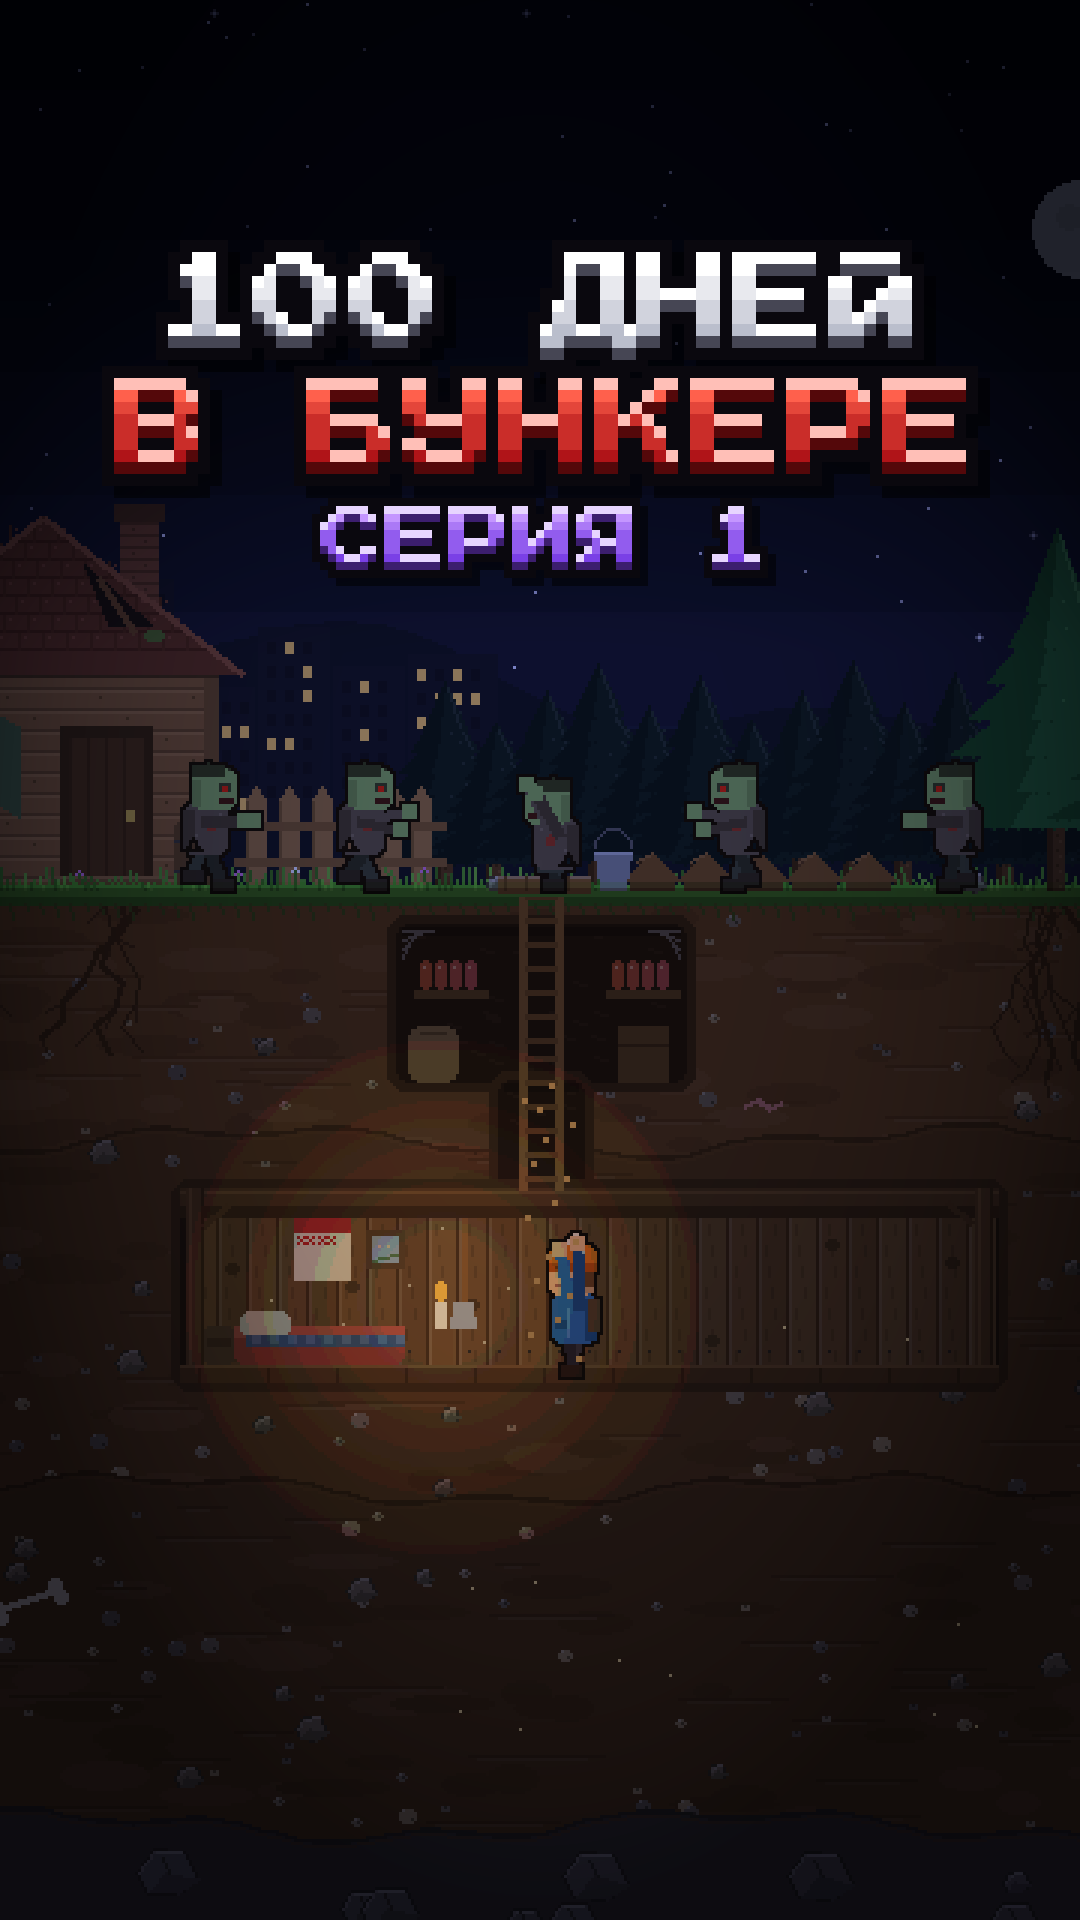
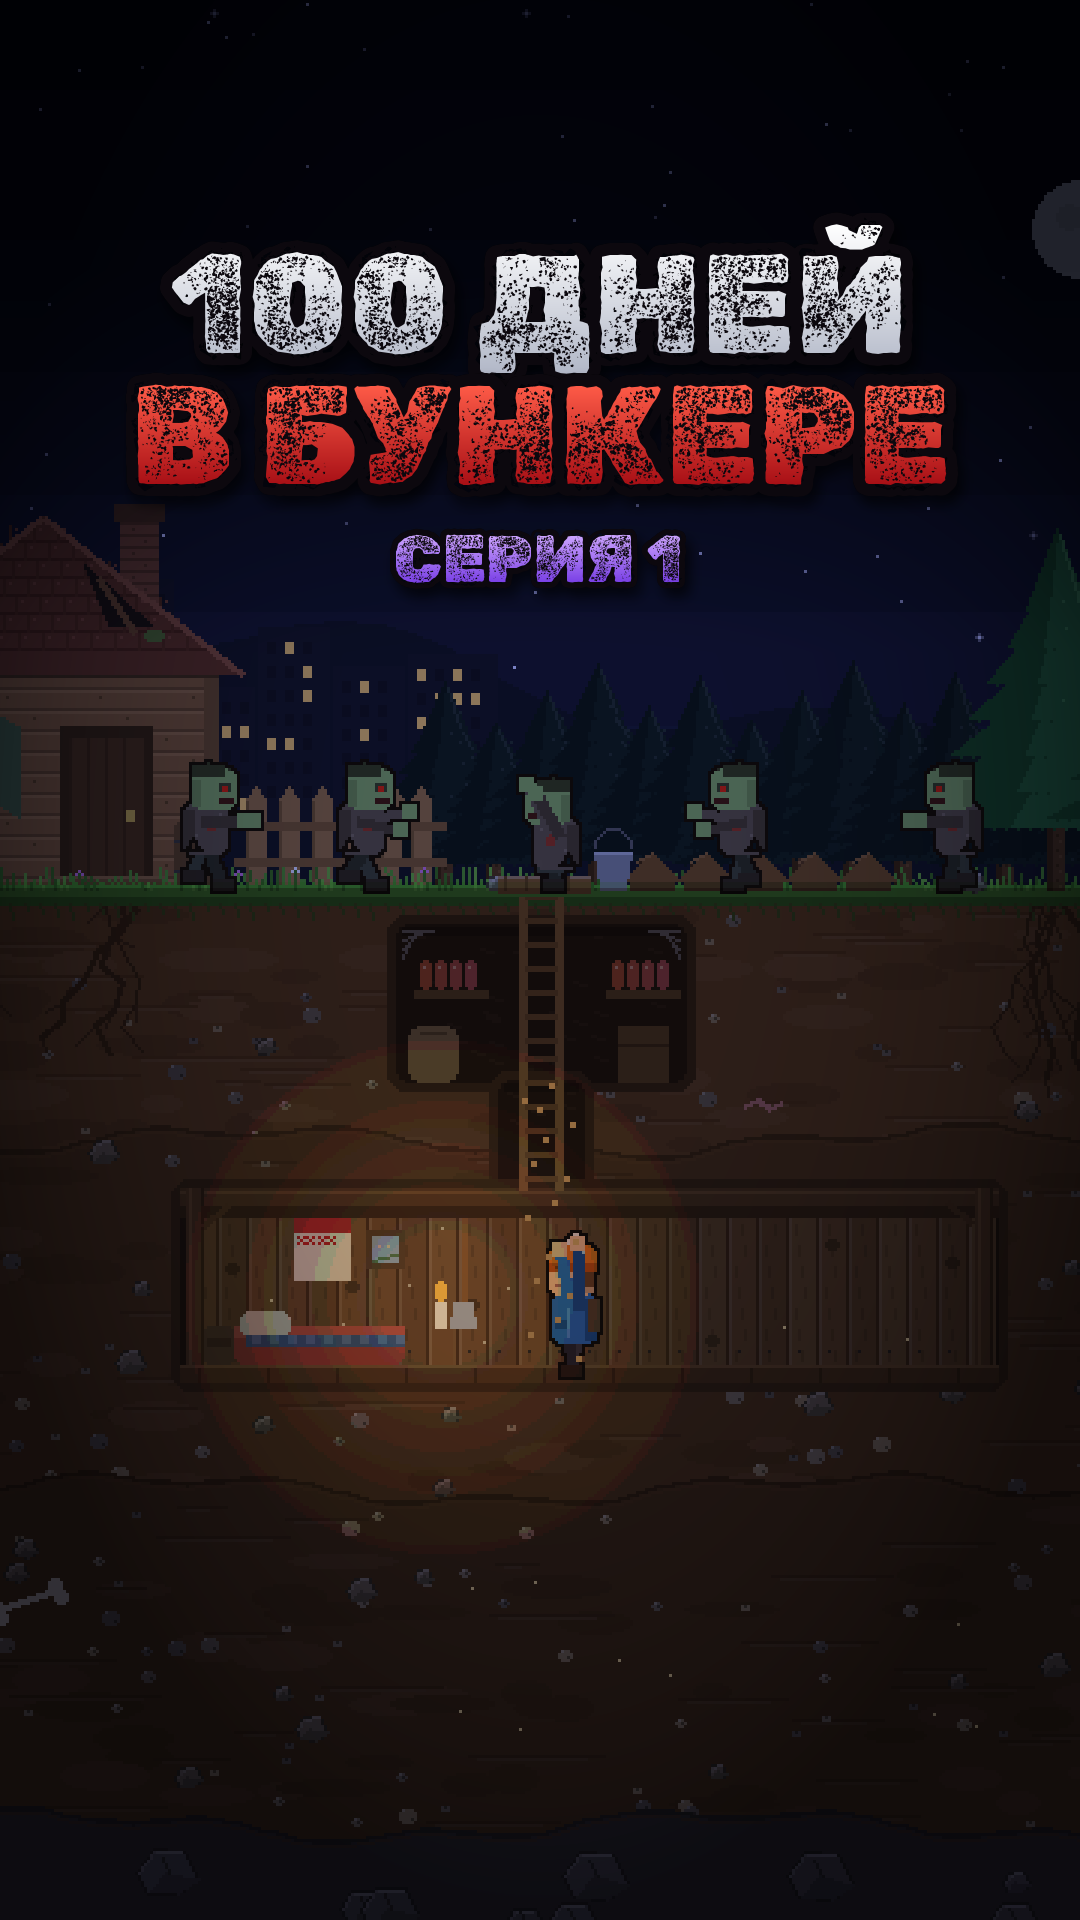
Zombi: title, ending and cover in Rubik Dirt (owner's choice)
Claude-Session: https://claude.ai/code/session_012AJnV3FoB4MYQ4cLJ3yctW

Changed region(s): [[0.0917, 0.0938, 0.9167, 0.3125]]

diff --git a/tiktok/zombi/bunker/build.py b/tiktok/zombi/bunker/build.py
@@ -225,7 +225,7 @@ def title(img, lines, t0, t):
             break
 
 
-# ---------- заставка: пиксельный логотип (Press Start 2P ×12, градиент, блик, объём, контур) ----------
+# ---------- заставка: логотип (выбран Rubik Dirt — обычный шрифт; пиксельный вариант тоже поддерживается) ----------
 WET = os.path.join(HERE, "fonts", "RubikWetPaint-Regular.ttf")
 LOGO_COLS = {"white": ((255, 255, 255), (186, 190, 204), (70, 70, 84)),
              "red": ((255, 96, 76), (176, 20, 24), (84, 8, 10)),
@@ -251,10 +251,48 @@ def _dil(a):
     return o
 
 
+SMOOTH = {"dirt": os.path.join(HERE, "fonts", "RubikDirt-Regular.ttf")}   # обычные (не пиксельные) шрифты заставки
+SMOOTH_COLS = {"white": ((255, 255, 255), (178, 184, 200)), "red": ((255, 92, 72), (168, 16, 22)),
+               "purple": ((206, 166, 255), (122, 64, 230))}
+
+
+def smooth_logo(text, color, path, size, maxw=980):
+    """Обычный шрифт: плавный градиент сверху вниз, толстый тёмный контур, мягкая тень."""
+    f = ImageFont.truetype(path, size)
+    while f.getlength(text) > maxw and size > 20:
+        size -= 4
+        f = ImageFont.truetype(path, size)
+    st = max(5, size // 11)
+    x0, y0, x1, y1 = f.getbbox(text, stroke_width=st)
+    pad = 24
+    w, h = x1 - x0 + 2 * pad, y1 - y0 + 2 * pad
+    org = (pad - x0, pad - y0)
+    fill = Image.new("L", (w, h), 0)
+    ImageDraw.Draw(fill).text(org, text, font=f, fill=255)
+    strk = Image.new("L", (w, h), 0)
+    ImageDraw.Draw(strk).text(org, text, font=f, fill=255, stroke_width=st, stroke_fill=255)
+    ys = np.where(np.asarray(fill).max(1) > 0)[0]
+    top, bot = SMOOTH_COLS[color]
+    t = np.clip((np.arange(h) - ys.min()) / max(1, ys.max() - ys.min()), 0, 1)[:, None, None]
+    g = np.broadcast_to(np.array(top) * (1 - t) + np.array(bot) * t, (h, w, 3)).astype(np.uint8)
+    out = Image.new("RGBA", (w, h), (0, 0, 0, 0))
+    sh = Image.new("RGBA", (w, h), (0, 0, 0, 0))
+    sh.paste((0, 0, 0, 180), (5, 9), strk)
+    out = Image.alpha_composite(out, sh.filter(ImageFilter.GaussianBlur(6)))
+    out.paste(Image.new("RGBA", (w, h), (12, 8, 14, 255)), (0, 0), strk)
+    out.paste(Image.fromarray(np.ascontiguousarray(g)), (0, 0), fill)
+    return out
+
+
 def logo(text, color, font):
-    """Пиксельная надпись как логотип ретро-игры: градиент ступенями, блик сверху, объём вниз, контур, тень."""
+    """Надпись заставки. font: "px12" — пиксельный логотип (Press Start 2P ×12),
+    "dirt140" — обычный шрифт Rubik Dirt размером 140 (градиент, контур, тень)."""
     key = ("logo", text, color, font)
     if key in SPR:
+        return SPR[key]
+    name = font.rstrip("0123456789")
+    if name in SMOOTH:
+        SPR[key] = smooth_logo(text, color, SMOOTH[name], int(font[len(name):]))
         return SPR[key]
     a, k = (_mask(text, WET, 40), 4) if font == "wet" else (_mask(text, PIXEL, 8), int(font[2:]))   # "px12" — пиксель ×12
     top, bot, ext = LOGO_COLS[color]
@@ -370,7 +408,7 @@ def frame(fi):
     last = scenes[-1]
     tend = last["words"][-1]["t1"] + 0.5
     if T > tend:
-        logo_lines(img, EP.END + [(EP.NEXT, "purple", 575, "px5")], tend, T)
+        logo_lines(img, EP.END + [(EP.NEXT, "purple", 590, EP.NEXT_FONT)], tend, T)
     if s["n"] in EP.NAMES:                   # жёлтое имя над героиней
         name, w0, wx, wy = EP.NAMES[s["n"]]
         tw = next((w["t0"] for w in s["words"] if w["raw"].strip(".,") == w0), None)

diff --git a/tiktok/zombi/bunker/ep1.py b/tiktok/zombi/bunker/ep1.py
@@ -15,8 +15,9 @@ SCENES = [
     (12, "ДЕНЬ 30", "Так стучат только живые. Но за целый месяц ты не слышал оттуда ни звука. **Кто сидел за стеной всё это время?**", 14),
 ]
 OFF = ("bike", "lamp", "tunnel")        # этого в мире ещё нет
-TITLE = [("100 ДНЕЙ", "white", 320, "px12"), ("В БУНКЕРЕ", "red", 440, "px12"), ("СЕРИЯ 1", "purple", 545, "px6")]
-END = [("КТО ЗА", "white", 340, "px12"), ("СТЕНОЙ?", "red", 460, "px12")]   # строки: (текст, цвет, y, шрифт: px12 = пиксель ×12)
+TITLE = [("100 ДНЕЙ", "white", 315, "dirt140"), ("В БУНКЕРЕ", "red", 450, "dirt140"), ("СЕРИЯ 1", "purple", 570, "dirt66")]
+END = [("КТО ЗА", "white", 330, "dirt150"), ("СТЕНОЙ?", "red", 470, "dirt150")]   # (текст, цвет, y, шрифт+размер)
+NEXT_FONT = "dirt60"
 NEXT = "СЕРИЯ 2 — СКОРО"
 NAMES = {}
 VOICE = "ep1_voice"

diff --git a/tiktok/zombi/bunker/cover.py b/tiktok/zombi/bunker/cover.py
@@ -37,8 +37,8 @@ def make(ep):
     xx = np.linspace(-1, 1, W)[None, :, None]
     a *= np.clip(1 - 0.35 * (xx ** 2 + ((yy - 0.45) * 2) ** 2) ** 1.5, 0.55, 1)
     im = Image.fromarray(a.clip(0, 255).astype(np.uint8)).convert("RGBA")
-    for (text, color, _, font), y in zip(m.TITLE, (300, 420, 535)):
-        build.paste_c(im, build.logo(text, color, font if not text.startswith("СЕРИЯ") else "px8"), W / 2, y)
+    for (text, color, _, font), y in zip(m.TITLE, (300, 435, 560)):
+        build.paste_c(im, build.logo(text, color, font), W / 2, y)
     if hook:                                                            # «тук-тук» у стены
         sx, sy = (432 - x0) * 3, (548 - y0) * 3
         build.paste_c(im, build.pix(hook, 4, build.YELLOW), sx - 140, sy - 150)

diff --git a/tiktok/zombi/ZOMBI.md b/tiktok/zombi/ZOMBI.md
@@ -44,11 +44,12 @@ ElevenLabs: тариф Creator, на 15.11.2026 использовано ~6.5 т
 ElevenLabs Music (`POST /v1/music`, model `music_v1`, `music_length_ms`): 90 с ≈ 70 символов, генерация ~8 с,
 не больше 2 запросов одновременно. Варианты в `music/` (1 тёплый, 2 тёмный, 3 шкатулка; `*_s_golosom.mp3` —
 первые 35 с серии с голосом). **Владелец выбрал №1 «тёплый» (`ambient_1_teplyy.mp3`)**. В сборку: `build.py --music ../music/<файл>.mp3` (под голосом тише, в паузах громче).
-### Шрифт заставки (выбран)
-Заставка и концовка — **пиксельный логотип на Press Start 2P** (вариант №3 из `test_frames/shrifty_pixel.jpg`):
-главные строки ×12, «СЕРИЯ N» ×6 фиолетовым, «СЕРИЯ N+1 — СКОРО» ×5; градиент ступенями, блик сверху,
-объём вниз на 1 пиксель, чёрный контур, тень (`logo()` в build.py; в `epN.py` шрифт строки "px12"/"px6").
-Владелец: шрифт ОБЯЗАТЕЛЬНО пиксельный. Pixelify Sans не подходит (кривая кириллица: В как 6, лишний штрих у К).
+### Шрифт заставки (выбран окончательно)
+Заставка, концовка и обложка — **Rubik Dirt (обычный, не пиксельный шрифт, «в грязи»)**, вариант №10 из
+`test_frames/shrifty_obychnye.jpg`: плавный градиент сверху вниз (белый / красный / фиолетовый), толстый тёмный
+контур, мягкая тень (`smooth_logo()` в build.py). В `epN.py`: "dirt140" — главные строки, "dirt66" — «СЕРИЯ N»,
+`NEXT_FONT = "dirt60"`. Субтитры и счётчик дней остаются пиксельными (Press Start 2P), как в «Сюжете фильма».
+История выбора: пиксельные варианты (`shrifty_pixel*.jpg`) владелец посмотрел и выбрал обычный шрифт.
 
 ### Обложка серии
 `python3 cover.py N` → `covers/epN_cover.png` (1080×1920) + `covers/epN_tile.png` (как плитка в профиле).
